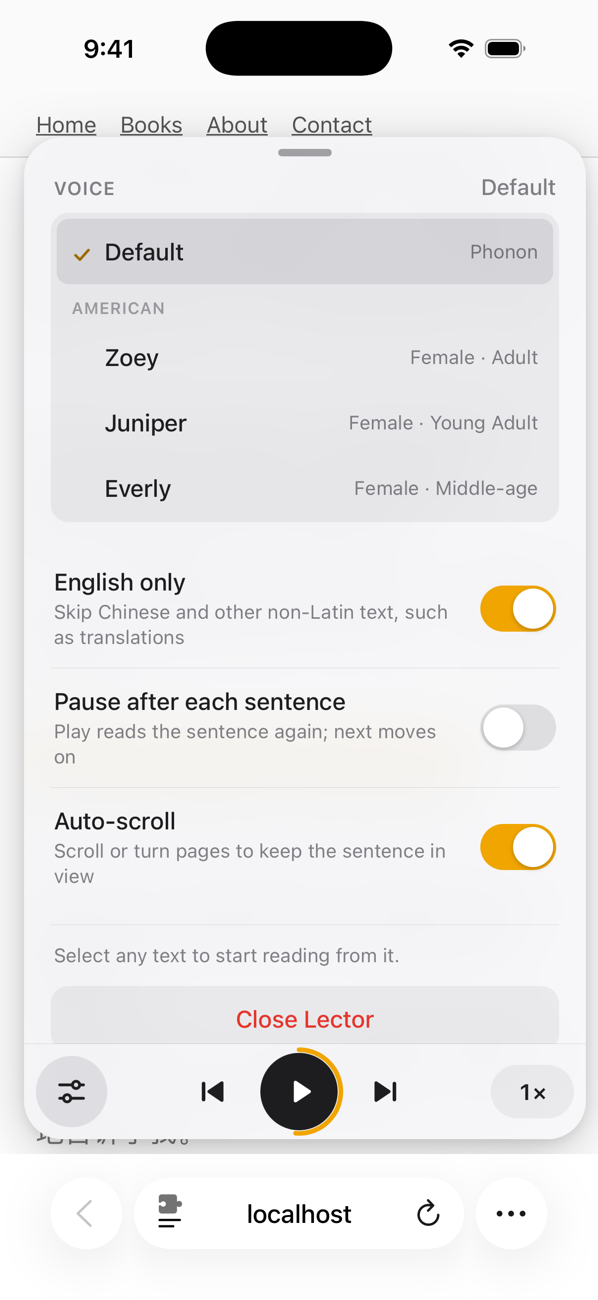
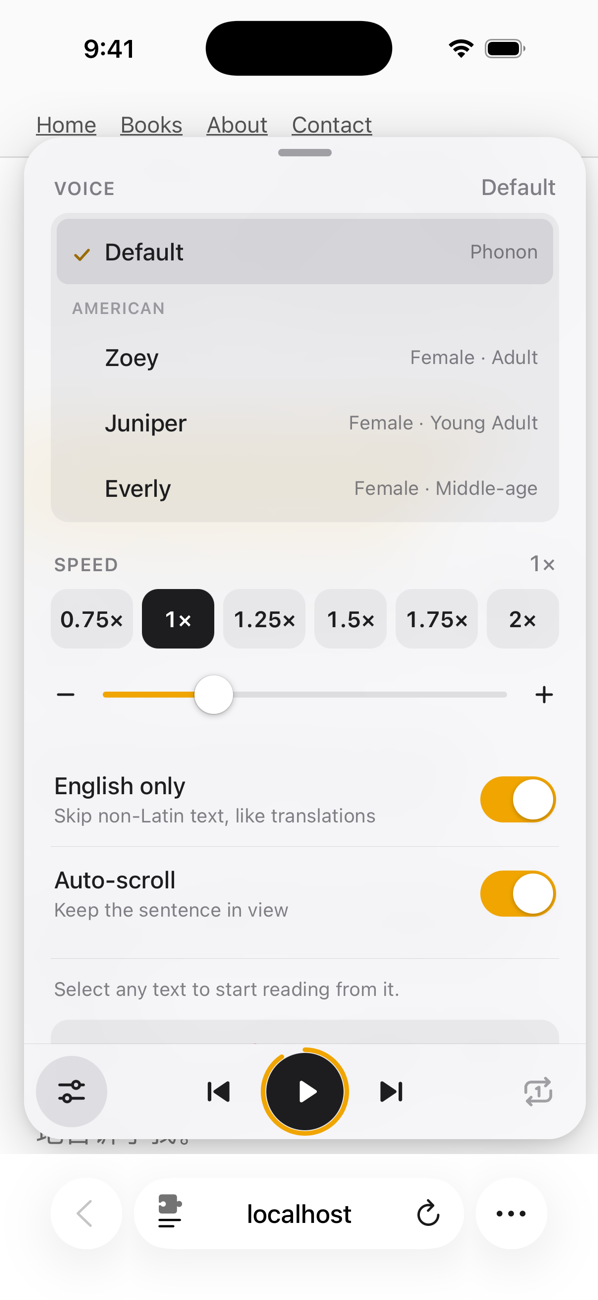
feat: replace the speed chip with a pause-after-each-sentence button and move speed into settings

Changed region(s): [[0.0903, 0.4308, 0.9331, 0.8923], [0.8729, 0.8308, 0.9331, 0.8615], [0.3311, 0.8308, 0.3913, 0.8615]]

diff --git a/src/player/player.ts b/src/player/player.ts
@@ -30,9 +30,9 @@ const prevBtn = $<HTMLButtonElement>('prev');
 const nextBtn = $<HTMLButtonElement>('next');
 const moreBtn = $<HTMLButtonElement>('more');
 const closeBtn = $<HTMLButtonElement>('close');
-const speedBtn = $<HTMLButtonElement>(platform === 'touch' ? 'speed-t' : 'speed-d');
+const stepBtn = $<HTMLButtonElement>('step');
 const glyph = playBtn.querySelector('.glyph') as HTMLElement;
-// on touch the bar is settings · previous · play · next · speed; on desktop settings sits at the end
+// on touch the bar is settings · previous · play · next · repeat; on desktop settings sits at the end
 if (platform === 'touch') controls.insertBefore(moreBtn, prevBtn);
 
 const SPEED_PRESETS = [0.75, 1, 1.25, 1.5, 1.75, 2];
@@ -41,6 +41,7 @@ const MOD = '⌥';
 prevBtn.innerHTML = icons.prev;
 nextBtn.innerHTML = icons.next;
 moreBtn.innerHTML = icons.settings;
+stepBtn.innerHTML = icons.repeatOne;
 closeBtn.innerHTML = icons.close;
 glyph.innerHTML = icons.play;
 if (platform === 'desktop') {
@@ -48,7 +49,7 @@ if (platform === 'desktop') {
   nextBtn.title = `Next sentence  ${MOD}↓`;
   moreBtn.title = 'Settings';
   closeBtn.title = 'Close';
-  speedBtn.title = `Speed  ${MOD}← ${MOD}→`;
+  stepBtn.title = 'Pause after each sentence';
 }
 
 const engine = new Engine(new URL('model/', location.href).href);
@@ -64,7 +65,7 @@ let usingSystem = false;
 let previewing = false;
 let unlocked = false;
 let status = { canPrev: false, canNext: false, atEnd: false };
-let pane: 'speed' | 'settings' | null = null;
+let open = false;
 let maxWidth = 440;
 let maxHeight = 640;
 let pageTitle = '';
@@ -103,7 +104,7 @@ function render() {
   playBtn.classList.toggle('loading', wantPlay && mode === 'loading');
   prevBtn.disabled = !status.canPrev && !current;
   nextBtn.disabled = !status.canNext;
-  speedBtn.textContent = formatRate(settings.rate);
+  stepBtn.setAttribute('aria-pressed', String(settings.stepMode));
   if (wantPlay && mode === 'playing' && !usingSystem) startProgress();
 }
 
@@ -449,8 +450,13 @@ prevBtn.addEventListener('click', () => command('prev'));
 nextBtn.addEventListener('click', () => command('next'));
 closeBtn.addEventListener('click', () => send({ type: 'command', command: 'close' }));
 $('turn-off').addEventListener('click', () => send({ type: 'command', command: 'close' }));
-moreBtn.addEventListener('click', () => openPane(pane === 'settings' ? null : 'settings'));
-speedBtn.addEventListener('click', () => openPane(pane === 'speed' ? null : 'speed'));
+moreBtn.addEventListener('click', () => openPanel(!open));
+stepBtn.addEventListener('click', () => {
+  settings.stepMode = !settings.stepMode;
+  render();
+  void saveSettings(settings);
+  send({ type: 'settings', settings: { ...settings } });
+});
 
 document.addEventListener(
   'click',
@@ -496,8 +502,8 @@ document.addEventListener('keydown', (e) => {
       if (e.altKey) c = 'faster';
       break;
     case 'Escape':
-      if (pane) {
-        openPane(null);
+      if (open) {
+        openPanel(false);
         e.preventDefault();
       }
       return;
@@ -534,7 +540,7 @@ window.addEventListener('pointermove', (e) => {
       /* capture unavailable */
     }
     // with the panel open on touch, the bar pulls the sheet down instead of moving the card
-    if (platform === 'touch' && pane) {
+    if (platform === 'touch' && open) {
       drag.sheet = true;
       sheetStart(drag.y);
     } else {
@@ -577,12 +583,12 @@ function barSize() {
 
 function cardSize() {
   const bar = barSize();
-  if (!pane) return { width: bar.width, height: bar.height, radius: bar.height / 2, expanded: false };
+  if (!open) return { width: bar.width, height: bar.height, radius: bar.height / 2, expanded: false };
   const width = platform === 'touch' ? bar.width : Math.max(bar.width, 340);
   document.documentElement.style.setProperty('--card-w', `${width}px`);
-  const active = panel.querySelector(`.pane[data-pane="${pane}"]`) as HTMLElement;
+  const content = panel.querySelector('.pane') as HTMLElement;
   const cs = getComputedStyle(panel);
-  const natural = active.offsetHeight + parseFloat(cs.paddingTop) + parseFloat(cs.paddingBottom) + 1;
+  const natural = content.offsetHeight + parseFloat(cs.paddingTop) + parseFloat(cs.paddingBottom) + 1;
   const height = Math.min(maxHeight, natural + bar.height);
   return { width, height, radius: platform === 'touch' ? 26 : 20, expanded: true };
 }
@@ -628,7 +634,7 @@ function sheetEnd(cancelled = false) {
   // capped, since from the bar there's little room left below the finger
   const close = !cancelled && (dy > Math.min(travel * 0.35, 96) || (speed > 0.4 && dy > 12));
   dlog('sheet: pulled', Math.round(dy), 'of', Math.round(travel), 'speed', speed.toFixed(2), close ? 'close' : 'back');
-  if (close) openPane(null);
+  if (close) openPanel(false);
   else reportSize();
 }
 
@@ -647,7 +653,7 @@ card.addEventListener(
   'touchstart',
   (e) => {
     pull = null;
-    if (platform !== 'touch' || !pane || sheet || e.touches.length !== 1) return;
+    if (platform !== 'touch' || !open || sheet || e.touches.length !== 1) return;
     const target = e.target as Element;
     // the bar has its own drag; sliders need sideways moves to themselves
     if (controls.contains(target) || target.closest('input[type="range"]')) return;
@@ -692,24 +698,20 @@ const endPull = (e: TouchEvent) => {
 card.addEventListener('touchend', endPull);
 card.addEventListener('touchcancel', endPull);
 
-function openPane(p: typeof pane) {
+function openPanel(on: boolean) {
   clearTimeout(collapseTimer);
-  pane = p;
+  open = on;
   sheet = null;
-  body.classList.toggle('sheet', p !== null);
-  moreBtn.setAttribute('aria-expanded', String(p === 'settings'));
-  speedBtn.setAttribute('aria-expanded', String(p === 'speed'));
-  if (p) {
+  body.classList.toggle('sheet', on);
+  moreBtn.setAttribute('aria-expanded', String(on));
+  if (on) {
     panel.hidden = false;
-    panel.dataset.pane = p;
     panel.scrollTop = 0;
-    if (p === 'settings') {
-      // bring the chosen voice into the list's view without scrolling the card itself
-      const list = $('voices');
-      const sel = list.querySelector('[aria-checked="true"]') as HTMLElement | null;
-      if (sel && (sel.offsetTop < list.scrollTop || sel.offsetTop + sel.offsetHeight > list.scrollTop + list.clientHeight)) {
-        list.scrollTop = sel.offsetTop - list.clientHeight / 2 + sel.offsetHeight / 2;
-      }
+    // bring the chosen voice into the list's view without scrolling the card itself
+    const list = $('voices');
+    const sel = list.querySelector('[aria-checked="true"]') as HTMLElement | null;
+    if (sel && (sel.offsetTop < list.scrollTop || sel.offsetTop + sel.offsetHeight > list.scrollTop + list.clientHeight)) {
+      list.scrollTop = sel.offsetTop - list.clientHeight / 2 + sel.offsetHeight / 2;
     }
     reportSize();
   } else {
@@ -855,7 +857,6 @@ function chooseVoice(id: string) {
 
 const toggles: Array<[string, keyof Settings]> = [
   ['opt-english', 'englishOnly'],
-  ['opt-step', 'stepMode'],
   ['opt-follow', 'follow'],
 ];
 
@@ -936,7 +937,7 @@ function onMessage(m: ToPlayer) {
       render();
       break;
     case 'collapse':
-      if (pane) openPane(null);
+      if (open) openPanel(false);
       break;
     case 'adjust':
       setRate(settings.rate + (m.command === 'faster' ? 0.1 : -0.1));

diff --git a/src/player/player.html b/src/player/player.html
@@ -10,20 +10,7 @@
     <div id="card">
       <div id="grab" class="touch-only" aria-hidden="true"></div>
       <section id="panel" hidden>
-        <div class="pane" data-pane="speed">
-          <div class="row-head">
-            <span class="label">Speed</span>
-            <span class="value" id="speed-value">1×</span>
-          </div>
-          <div class="presets" id="presets" role="radiogroup" aria-label="Speed"></div>
-          <div class="slider-row">
-            <button type="button" class="icon small" id="slower" aria-label="Slower"></button>
-            <input type="range" id="speed-slider" min="0.5" max="2.5" step="0.05" aria-label="Speed" />
-            <button type="button" class="icon small" id="faster" aria-label="Faster"></button>
-          </div>
-        </div>
-
-        <div class="pane" data-pane="settings">
+        <div class="pane">
           <div class="section">
             <div class="row-head">
               <span class="label">Voice</span>
@@ -32,27 +19,32 @@
             <div class="voices" id="voices" role="radiogroup" aria-label="Voice"></div>
           </div>
 
+          <div class="section">
+            <div class="row-head">
+              <span class="label">Speed</span>
+              <span class="value" id="speed-value">1×</span>
+            </div>
+            <div class="presets" id="presets" role="radiogroup" aria-label="Speed"></div>
+            <div class="slider-row">
+              <button type="button" class="icon small" id="slower" aria-label="Slower"></button>
+              <input type="range" id="speed-slider" min="0.5" max="2.5" step="0.05" aria-label="Speed" />
+              <button type="button" class="icon small" id="faster" aria-label="Faster"></button>
+            </div>
+          </div>
+
           <div class="section toggles">
             <label class="toggle">
               <span class="text">
                 <span class="title">English only</span>
-                <span class="sub">Skip Chinese and other non-Latin text, such as translations</span>
+                <span class="sub">Skip non-Latin text, like translations</span>
               </span>
               <input type="checkbox" id="opt-english" role="switch" />
               <span class="switch" aria-hidden="true"></span>
             </label>
             <label class="toggle">
               <span class="text">
-                <span class="title">Pause after each sentence</span>
-                <span class="sub">Play reads the sentence again; next moves on</span>
-              </span>
-              <input type="checkbox" id="opt-step" role="switch" />
-              <span class="switch" aria-hidden="true"></span>
-            </label>
-            <label class="toggle">
-              <span class="text">
                 <span class="title">Auto-scroll</span>
-                <span class="sub">Scroll or turn pages to keep the sentence in view</span>
+                <span class="sub">Keep the sentence in view</span>
               </span>
               <input type="checkbox" id="opt-follow" role="switch" />
               <span class="switch" aria-hidden="true"></span>
@@ -85,9 +77,8 @@
           <span class="glyph"></span>
         </button>
         <button type="button" class="icon" id="next" aria-label="Next sentence"></button>
-        <button type="button" class="chip-btn touch-only" id="speed-t" aria-label="Speed"></button>
         <span class="sep desktop-only" aria-hidden="true"></span>
-        <button type="button" class="chip-btn desktop-only" id="speed-d" aria-label="Speed"></button>
+        <button type="button" class="icon" id="step" aria-label="Pause after each sentence" aria-pressed="false"></button>
         <button type="button" class="icon" id="more" aria-label="Settings"></button>
         <button type="button" class="icon small desktop-only" id="close" aria-label="Close"></button>
       </div>

diff --git a/src/player/player.css b/src/player/player.css
@@ -178,6 +178,15 @@ body.touch #next {
   background: var(--sel);
 }
 
+/* pause after each sentence: gray when off, full ink when on */
+#step {
+  color: var(--fg3);
+}
+
+#step[aria-pressed="true"] {
+  color: var(--fg);
+}
+
 .play {
   position: relative;
   width: var(--play);
@@ -269,43 +278,6 @@ body.touch #next {
   }
 }
 
-.chip-btn {
-  min-width: 48px;
-  height: 30px;
-  padding: 0 9px;
-  border: 0;
-  border-radius: 15px;
-  background: var(--well);
-  font-size: 13px;
-  font-weight: 600;
-  letter-spacing: -0.01em;
-  font-variant-numeric: tabular-nums;
-  cursor: pointer;
-  transition: background-color 0.12s ease, transform 0.1s ease;
-}
-
-@media (hover: hover) {
-  .chip-btn:hover {
-    background: var(--sel);
-  }
-}
-
-.chip-btn:active {
-  transform: scale(0.94);
-}
-
-.chip-btn[aria-expanded="true"] {
-  background: var(--play-bg);
-  color: var(--play-fg);
-}
-
-body.touch .chip-btn {
-  min-width: 56px;
-  height: 36px;
-  border-radius: 18px;
-  font-size: 15px;
-}
-
 .grip {
   width: 12px;
   height: 22px;
@@ -375,15 +347,6 @@ body.touch #panel {
 body.sheet #grab {
   opacity: 1;
   pointer-events: auto;
-}
-
-.pane {
-  display: none;
-}
-
-#panel[data-pane="speed"] .pane[data-pane="speed"],
-#panel[data-pane="settings"] .pane[data-pane="settings"] {
-  display: block;
 }
 
 .section + .section {

diff --git a/src/player/icons.ts b/src/player/icons.ts
@@ -13,6 +13,10 @@ export const icons = {
   settings: svg(
     '<path d="M4 7.5h8.6M17.4 7.5H20M4 16.5h2.6M11.4 16.5H20" stroke="currentColor" stroke-width="1.9" stroke-linecap="round" fill="none"/><circle cx="15" cy="7.5" r="2.4" stroke="currentColor" stroke-width="1.9" fill="none"/><circle cx="9" cy="16.5" r="2.4" stroke="currentColor" stroke-width="1.9" fill="none"/>',
   ),
+  // repeat-one: the loop, with a 1 inside
+  repeatOne: svg(
+    '<path d="M3.6 12.6V9.2a3.6 3.6 0 0 1 3.6-3.6h12.2M16.8 3l2.6 2.6-2.6 2.6M20.4 11.4v3.4a3.6 3.6 0 0 1-3.6 3.6H4.6M7.2 21l-2.6-2.6 2.6-2.6M10.7 10.1 12.5 9v6" stroke="currentColor" stroke-width="1.9" stroke-linecap="round" stroke-linejoin="round" fill="none"/>',
+  ),
   minus: svg('<path d="M6 12h12" stroke="currentColor" stroke-width="2" stroke-linecap="round" fill="none"/>'),
   plus: svg('<path d="M12 6v12M6 12h12" stroke="currentColor" stroke-width="2" stroke-linecap="round" fill="none"/>'),
   close: svg('<path d="M6.5 6.5l11 11M17.5 6.5l-11 11" stroke="currentColor" stroke-width="2" stroke-linecap="round" fill="none"/>'),

diff --git a/src/content/bar.ts b/src/content/bar.ts
@@ -119,7 +119,7 @@ export class Bar {
     this.frame.src = `${ext.runtime.getURL('player.html')}#${params}`;
     dlog('bar: mount', this.frame.src, this.platform, window.innerWidth, window.innerHeight);
     // a placeholder size until the player reports its own
-    this.applySize(this.platform === 'touch' ? { width: Math.min(window.innerWidth - 24, 440), height: 64, radius: 32 } : { width: 318, height: 52, radius: 26 });
+    this.applySize(this.platform === 'touch' ? { width: Math.min(window.innerWidth - 24, 440), height: 64, radius: 32 } : { width: 300, height: 52, radius: 26 });
     document.documentElement.append(this.host);
     window.addEventListener('resize', this.onResize);
   }

diff --git a/README.md b/README.md
@@ -80,7 +80,7 @@ After you click a control in the player, <kbd>Space</kbd>, <kbd>↑</kbd> and <k
 
 ### Settings
 
-Tap the sliders button for voice, **English only**, **Pause after each sentence**, and **Auto-scroll**. Tap the speed button for presets and a slider. On iPhone, pull either card down to put it away. Settings are shared by every site.
+Tap the sliders button for voice, speed, **English only**, and **Auto-scroll**. On iPhone, pull the card down to put it away. The repeat-one button on the bar pauses after each sentence: play reads it again, next moves on. Settings are shared by every site.
 
 ## How it works
 
